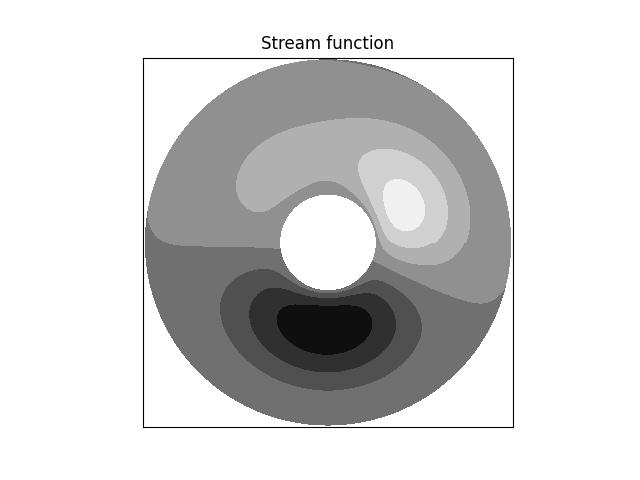
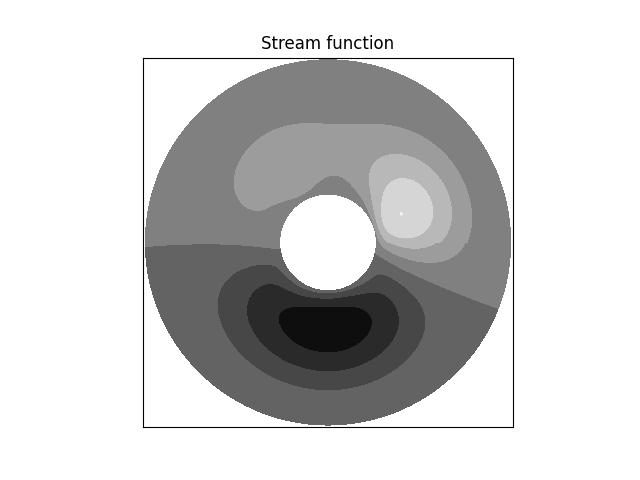
[mod] docs

diff --git a/docs/source/appendix/polar.py b/docs/source/appendix/polar.py
@@ -23,7 +23,7 @@ def compute_boundary_condition(ys: np.ndarray) -> [np.ndarray, np.ndarray]:
 def get_f(k: int, x: float) -> float:
     if 0 == k:
         raise RuntimeError("This code should not be reachable")
-    elif -1 == k or 1 == k:
+    elif 1 == k:
         return [
             np.power(x, -1),
             x,
@@ -42,7 +42,7 @@ def get_f(k: int, x: float) -> float:
 def get_dfdx(k: int, x: float) -> float:
     if 0 == k:
         raise RuntimeError("This code should not be reachable")
-    elif -1 == k or 1 == k:
+    elif 1 == k:
         return [
             - np.power(x, -2),
             1,
@@ -51,10 +51,10 @@ def get_dfdx(k: int, x: float) -> float:
         ]
     else:
         return [
-            - (0 + k) * np.power(x, - k - 1),
-            + (0 + k) * np.power(x, + k - 1),
-            - (2 - k) * np.power(x, - k + 1),
-            + (2 + k) * np.power(x, + k + 1),
+            (0 - k) * np.power(x, 0 - k - 1),
+            (0 + k) * np.power(x, 0 + k - 1),
+            (2 - k) * np.power(x, 2 - k - 1),
+            (2 + k) * np.power(x, 2 + k - 1),
         ]
 
 def compute_stream_function(xs: np.ndarray, ys: np.ndarray, bc: [np.ndarray, np.ndarray]) -> np.ndarray:

diff --git a/docs/source/numerical_treatment.rst b/docs/source/numerical_treatment.rst
@@ -5,30 +5,31 @@
 Numerical Treatment
 ###################
 
-In summary, the velocity field :math:`u_i` is computed and subsequently used to transport the concentration field :math:`c`.
-
-*************************************
-Step 1: Computing the Stream Function
-*************************************
-
-Let :math:`c_{i, j}^n` be the concentration field at step :math:`n` (known), where the indices :math:`i` and :math:`j` denote the spatial locations in the radial and azimuthal directions, respectively.
+Let :math:`c_{i, j}` be the concentration field, where the indices :math:`i` and :math:`j` denote the spatial locations in the radial and azimuthal directions, respectively.
 The index ranges are :math:`i = 0, 1, \dots, \nr, \nr + 1` and :math:`j = 0, 1, \dots, \nt, \nt + 1`, where :math:`i = 0, \nr + 1` and :math:`j = 0, \nt + 1` store the boundary values and reflect periodicity, respectively.
 The following diagram illustrates the positioning of the concentration field :math:`c_{i, j}` (reddish dots).
 
 .. image:: ./concentration_position.png
 
-From this given field, we compute the spectral representation on the particle surface (at :math:`\vr = 1`, or equivalently :math:`i = 0`) using the discrete Fourier transform:
+Below we briefly discuss the process to integrate the concentration field in time numerically.
+We assume that :math:`c_{i, j}^n`, a concentration field at step :math:`n`, is given.
+
+*************************************
+Step 1: Computing the Stream Function
+*************************************
+
+To start, from :math:`c` on the particle surface (at :math:`\vr = 1`, or equivalently :math:`i = 0`), we transform it to the spectral domain:
 
 .. math::
 
     C_k^s
-    =
+    \equiv
     \sum_{j = 0}^{\nt - 1}
     c_{0, j + 1}
     \expp{- \frac{j k}{\nt} I},
 
 where :math:`k = 0, 1, \dots, \nt - 1`.
-Note that :math:`C_k^s` satisfies the complex-conjugate property:
+Note that, because of :math:`c_{i, j} \in \mathbb{R}`, :math:`C_k^s` satisfies the complex-conjugate property:
 
 .. math::
 
@@ -48,14 +49,37 @@ Since the concentration :math:`c` is located at cell centers in the azimuthal di
     C_k^s
     \expp{- \pi \frac{k}{\nt} I}.
 
-Using :math:`{C_k^s}^\prime`, we compute the stream function in the frequency domain :math:`\Psi_{i + \frac{1}{2}, k}`:
+Using :math:`{C_k^s}^\prime`, the azimuthal velocity on the particle is obtained by:
+
+.. math::
+
+    \vat{\ut}{r = 1}
+    =
+    \vat{
+        \frac{1}{\vr}
+        \pder{}{c}{\vt}
+    }{
+        r = 1
+    },
+
+or in the frequency domain:
+
+.. math::
+
+    \vat{U_\vt}{r = 1}
+    \equiv
+    U_{\vt}^s
+    =
+    I k {C_k^s}^\prime.
+
+Finally we evaluate the stream function in the frequency domain at radial cell faces :math:`\Psi_{i + \frac{1}{2}, k}` following:
 
 .. math::
 
     \Psi_{i + \frac{1}{2}, k}
     =
     \frac{1 - \vr_{i + \frac{1}{2}}^2}{2 \vr_{i + \frac{1}{2}}^{k}}
-    I k M {C_k^s}^\prime,
+    U_{\vt}^s,
 
 whose inverse transform yields :math:`\psi_{i + \frac{1}{2}, j + \frac{1}{2}}`, defined at cell corners.
 

diff --git a/docs/source/governing_equation.rst b/docs/source/governing_equation.rst
@@ -103,11 +103,33 @@ where :math:`I` is the imaginary unit, and
     \Psi_k \left( \vr, t \right)
     =
     \frac{1 - \vr^2}{2 \vr^{\left| k \right|}}
-    I k M C_k^s,
+    U_{\vt}^s,
 
 following |HU2019|.
+Note that, although this relation is not strictly valid due to the presence of the outer wall, we assume it as a good approximation when the outer boundary is sufficiently far.
 
-Here, :math:`C_k^s` represents the concentration field on the particle surface (at :math:`\vr = 1`) in the frequency domain:
+In the above equation, :math:`U_{\vt}^s` is the azimuthal velocity along the particle surface, expressed in the frequency domain:
+
+.. math::
+
+    U_{\vt}^s
+    =
+    I k C_k^s,
+
+or in the physical space:
+
+.. math::
+
+    \vat{\ut}{r = 1}
+    =
+    \vat{
+        \frac{1}{\vr}
+        \pder{}{\ut}{\vt}
+    }{
+        r = 1
+    }.
+
+:math:`C_k^s` represents the concentration field on the particle surface (at :math:`\vr = 1`) in the frequency domain:
 
 .. math::
 
@@ -115,8 +137,6 @@ Here, :math:`C_k^s` represents the concentration field on the particle surface (
     =
     \sum_k
     C_k^s \expp{I k \vt}.
-
-Note that, although this condition is not strictly met due to the presence of the outer wall, we assume it as a good approximation when :math:`R` is sufficiently large.
 
 ===================
 Concentration Field
@@ -153,7 +173,7 @@ and
         }{
             2 {\vr}^{\left| k \right| + 1}
         }
-        M C_k^s,
+        C_k^s,
 
     .. math::
 
@@ -165,7 +185,7 @@ and
             +
             \frac{\left| k \right|}{2} \frac{1}{{\vr}^{\left| k \right| + 1}}
         \right]
-        i k M C_k^s.
+        i k C_k^s.
 
     It is readily apparent that they satisfy the desired boundary conditions on the particle surface.
 

diff --git a/docs/source/appendix/polar.rst b/docs/source/appendix/polar.rst
@@ -462,17 +462,17 @@ The wall-normal derivative is
         3 L \vx^2, \\
         \text{otherwise}
         &
-        -
-        A_k k \vx^{- k - 1}
+        +
+        A_k \left( - k \right) \vx^{- k - 1}
         +
         B_k k \vx^{k - 1}
-        -
-        \left( 2 - k \right) C_k \vx^{1 - k}
         +
-        \left( 2 + k \right) D_k \vx^{1 + k}.
+        C_k \left( 2 - k \right) \vx^{1 - k}
+        +
+        D_k \left( 2 + k \right) \vx^{1 + k}.
     \end{cases}
 
-The coefficients are determined by taking care of the boundary conditions imposed on the walls; namely, at :math:`\vx = \vx_i > 0` and :math:`\vx = \vx_o > \vx_i`, we enforce
+The coefficients are determined by incorporating the boundary conditions imposed on the walls; namely, at :math:`\vx = \vx_i > 0` and :math:`\vx = \vx_o > \vx_i`, we enforce
 
 .. math::
 
